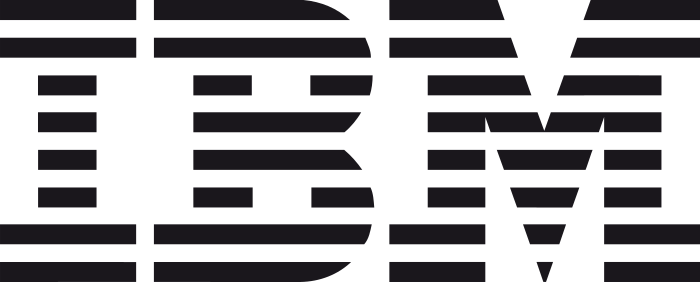
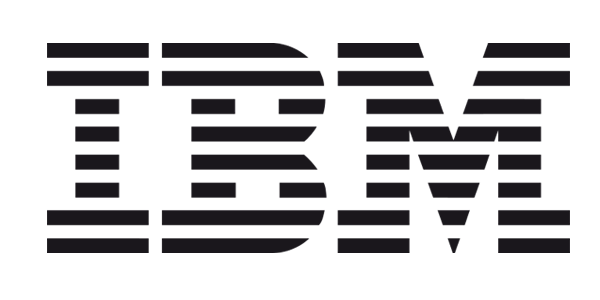
Se modificaron imagenes de compañias

diff --git a/src/index.css b/src/index.css
@@ -500,7 +500,7 @@ hr{
 
   .card .content {
     position : relative;
-    padding: 4rem 0.8rem 0.8rem 0.8rem;
+    
     top : -150px;
     color: var(--blackColor);
     left: +50px;
@@ -511,15 +511,18 @@ hr{
     transition : 0.3s ease-in-out;
     background-color : var(--pastelYellow);
     border: none;
+    height: 0.5rem;
       
   }
 
   .card:hover .content {
     margin-top : 4rem;
+    padding: 4rem 0.8rem 0.8rem 0.8rem;
     left: +50px;
     visibility : visible;
     opacity : 1;
     transition-delay: 0.2s;
+    height: fit-content
   }
 }
 /* CSS portfolio */
@@ -724,6 +727,8 @@ hr{
 
   .certImg {
     width: 100%;
+    max-width: 10rem;
+    max-height: auto;
     height:fit-content;
   }
 
@@ -732,6 +737,7 @@ hr{
     box-shadow:0 0.2rem 1rem rgba(160, 146, 142, 0.5) ;
     border: none;
     border-radius: 5%;
+    min-height: 8rem;
   }
   
   .certTitle {

diff --git a/src/components/skills/TechSkills.jsx b/src/components/skills/TechSkills.jsx
@@ -128,7 +128,7 @@ const TechSkills = () => {
             </Col>
           </Row>
           <Row>
-            <Col xs={12} sm={6} lg={4} className='my-2'>    
+            <Col xs={12} sm={6} lg={6} className='my-2'>    
               <h3>Metodologías</h3>
               <Row className='d-flex justify-content-around'>
               
@@ -140,7 +140,7 @@ const TechSkills = () => {
             </Col>
             <Col xs={1} className='vr d-none d-lg-block'></Col>
 
-            <Col xs={12} sm={6} lg={4} className='my-2'>    
+            <Col xs={12} sm={6} lg={5} className='my-2'>    
               <h3>Diseño UX/UI</h3>
               <Row className='d-flex justify-content-around'>
                 <Col xs={12} className='d-flex flex-column justify-content-center align-items-center pt-1'>

diff --git a/src/components/cards/CertificationCard.jsx b/src/components/cards/CertificationCard.jsx
@@ -9,10 +9,10 @@ const CertificationCard = (certification) => {
       <Container id='certCard' className='my-3'>
         <div className='certContent px-3 py-2' style={{backgroundColor: `${certification.color}`}}>
           <Row>
-            <Col xs={12} sm={3} className='d-flex justify-content-center align-items-center'>
+            <Col xs={12} md={3} lg={12} xl={3} className='d-flex justify-content-center align-items-center'>
               <Image className='certImg' src={certification.img}/>
             </Col>
-            <Col xs={12} sm={9} className='ps-3 d-flex flex-column' >
+            <Col xs={12} md={9} lg={12} xl={9} className='ps-3 d-flex flex-column justify-content-center' >
               <p className='m-0 p-0 certTitle'>{certification.title}</p>
      
        

diff --git a/src/pages/Certifications.jsx b/src/pages/Certifications.jsx
@@ -16,7 +16,7 @@ const Certifications = () => {
                 <Row>
                   {certs.map((cert,index) => (
                     (cert.type===1) ? 
-                      <Col xs={12} md={6} key={index}>
+                      <Col xs={12} lg={6} key={index}>
                       <CertificationCard {...cert}/>
                       </Col>
                     :null
@@ -32,7 +32,7 @@ const Certifications = () => {
                  <Row>
                 {certs.map((cert,index) => (
                   (cert.type===0) ? 
-                    <Col xs={12} md={6} key={index}>
+                    <Col xs={12} lg={6} key={index}>
                       <CertificationCard {...cert}/>
                     </Col>
                   :null

diff --git a/src/assets/js/certifications.js b/src/assets/js/certifications.js
@@ -89,6 +89,7 @@ const certifications =[{
   url:"https://media.licdn.com/dms/image/v2/D4D2DAQGL25op3SRMxQ/profile-treasury-document-images_800/B4DZXN7suTH4Ak-/1/1742916735343?e=1748476800&v=beta&t=UUf75TOjz5Xx9Mz21w-H-hyvJNMi4QeYno8PmmFqJ0E"
 },{
   img:'/certifications/ADL.png',
+  type:0,
   title:'Figma',
   primary_company: 'Academia Desafio Latam',
   companys:{

diff --git a/index.html b/index.html
@@ -2,7 +2,7 @@
 <html lang="en">
   <head>
     <meta charset="UTF-8" />
-
+    <link rel="icon" type="image/x-icon" href="./src/assets/img/favicon.png">
     <meta name="viewport" content="width=device-width, initial-scale=1.0" />
     <title>Millaray Painemil</title>
   </head>

diff --git a/src/App.jsx b/src/App.jsx
@@ -22,9 +22,9 @@ function App() {
       <Skills/>
       <Education/>
       <Certifications/>
-      
-      <Portfolio/>
       <Experience/>
+      <Portfolio/>
+      
   
  
        
